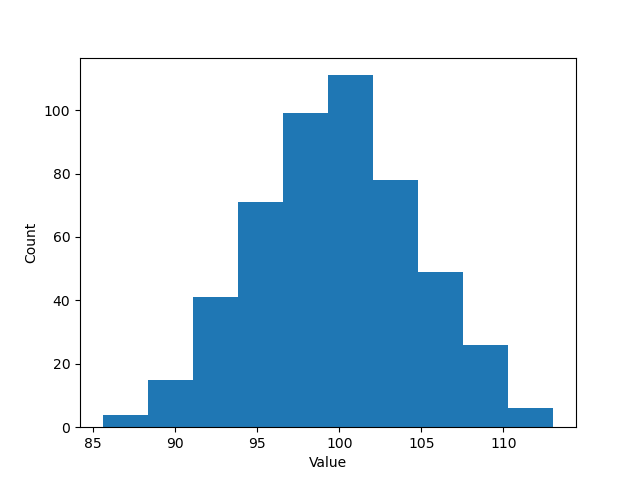
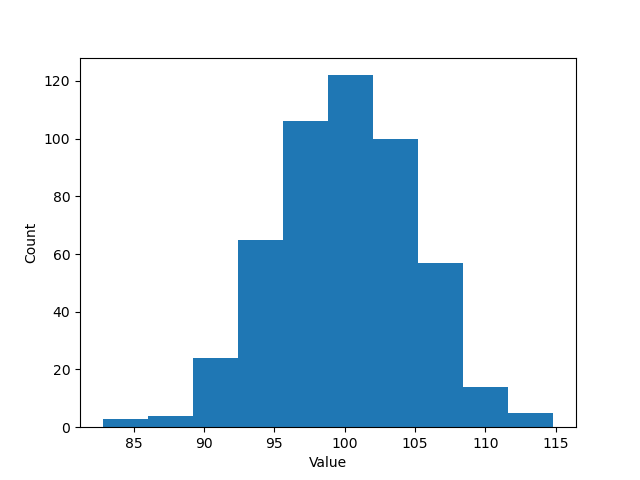
index.html more prob description

diff --git a/probplot.html b/probplot.html
@@ -1,67 +1,20 @@
+<!DOCTYPE html>
+<html lang="en">
+
 <head>
     <title>Presenting Statistical Distributions</title>
-    <style>
-        code {
-            white-space: pre-wrap;
-        }
-    
-        span.smallcaps {
-            font-variant: small-caps;
-        }
-    
-        span.underline {
-            text-decoration: underline;
-        }
-    
-        div.column {
-            display: inline-block;
-            vertical-align: top;
-            width: 50%;
-        }
-    
-        div.hanging-indent {
-            margin-left: 1.5em;
-            text-indent: -1.5em;
-        }
-    
-        ul.task-list {
-            list-style: none;
-        }
-    
-        body {
-            font-family: -apple-system, BlinkMacSystemFont, "Segoe UI", Roboto, "Helvetica Neue", Helvetica, Arial, sans-serif, "Apple Color Emoji", "Segoe UI Emoji", "Segoe UI Symbol";
-            font-size: 12pt;
-            line-height: 1.6;
-            margin: auto;
-            max-width: 920px;
-            min-width: 360px;
-            padding: 2rem;
-            word-wrap: break-word;
-        }
-    
-        figure {
-            text-align: center;
-            
-            margin-left: auto;
-            margin-right: auto;
-        }
-
-        pre {
-            background-color: lightgrey;
-            max-width: 750px;
-            margin-left: auto;
-            margin-right: auto;
-            padding: 14px 16px;
-        }
-    </style>
+    <link rel="stylesheet" href="style.css">
+    <meta name="viewport" content="width=device-width, initial-scale=1">
+    <meta charset="utf-8">
 </head>
+
 <body>
     <h1>Plotting Statistical Distributions</h1>
     <p>
-        What is the best way to present statistical data?  Some of the
+        What is the best way to present statistical data? Some of the
         desireable features of the plot would be a means of comparing features
-        of the distributions.  For example, for normally distributed data, we
-        might like to compare the mean and standard deviation.  Additionally, it
+        of the distributions. For example, for normally distributed data, we
+        might like to compare the mean and standard deviation. Additionally, it
         is desirable to visualize how closely the data conforms to a particular
         distribution. A common way data is presented is as a histogram as follows:
     </p>
@@ -79,35 +32,48 @@
     <p>
         In Figure 2, we can tell from inspection that the means are different
         between the two distributions, but it would be difficult to tell that
-        the standard deviations are different.  Additionally, if we were to add
+        the standard deviations are different. Additionally, if we were to add
         much more than two distributions, the plots starts to get messy quite
         quickly.
     </p>
     <p>
         An alternate means of presenting this data is using a <a
-        href="https://en.wikipedia.org/wiki/P%E2%80%93P_plot">probability
-        plot.</a>  
+            href="https://en.wikipedia.org/wiki/P%E2%80%93P_plot">probability
+            plot.</a> It is generated by first ordering the observations from
+        minimum to maximum and then calculating the <a
+            href="https://en.wikipedia.org/wiki/Cumulative_frequency_analysis#Probability_estimate">
+            probability estimate</a> for each point. In order to make the data fall
+        on a straight line, <em>the position</em> of the plotted point is the inverse
+        cumulative distribution function (e.g. number of standard deviations
+        away from the mean) and the axis of the plot is percentage (to ease in
+        interpretation).
     </p>
     <figure>
         <img src="imgs/probplot.png" width="350px">
         <figcaption>
-            Figure 3 - Probability plot of the same two data distributions plotted above.
+            Figure 3 - Probability plot of the same two data distributions
+            plotted above as well as a skewnorm distribution to illustrate the
+            non-linearity.
         </figcaption>
     </figure>
     <p>
-        Presenting the data in this way has several advantages: 
-        <ol type="1">
-            <li>Several distributions can be plotted on the same plot for comparison.</li>
-            <li>The median is where the data intersects the 50% point.</li>
-            <li>The standard deviation is proportional to the slope of the data.  (The actual standard deviation is roughly the 84% point minus the 50% point.)</li>
-            <li>The linearity of the data represents how well the data fits the chosen distribution.</li>
-        </ol>
-        Here is how this example data was generated:
-        <pre>
+        Presenting the data in this way has several advantages:
+    <ol type="1">
+        <li>Several sets of observation can be plotted on the same plot for comparison.</li>
+        <li>The median is where the data intersects the 50% point.</li>
+        <li>The standard deviation is proportional to the slope of the data. (The actual standard deviation is roughly
+            the 84% point minus the 50% point.)</li>
+        <li>The linearity of the data represents how well the data fits the chosen distribution.</li>
+    </ol>
+    Here is how this example data was generated (<a href="probplot.py"><tt>probplot.py</tt></a>). scipy also has a <a
+        href="https://docs.scipy.org/doc/scipy/reference/generated/scipy.stats.probplot.html"><tt>scipy.stats.probplot</tt></a>
+    function that can be used.
+    <pre>
 import statsmodels.api as sm
 import matplotlib.pyplot as plt
 import numpy as np
 import itertools
+from scipy.stats import skewnorm
 
 means = [100, 105]
 std_devs = [5, 6]
@@ -116,7 +82,7 @@ num_to_sim = 500
 
 data = [
     np.random.randn(num_to_sim) * s + mu for mu, s in zip(means, std_devs)
-]
+] + [skewnorm.rvs(10, size=num_to_sim)*std_devs[0] + means[0]]
 
 plt.hist(data[0])
 plt.xlabel('Value')
@@ -126,14 +92,19 @@ plt.savefig('imgs/basic_histogram.png')
 plt.figure()
 plt.hist(data[0])
 plt.hist(data[1], alpha=0.5)
+# plt.hist(data[2], alpha=0.5)
+
 plt.xlabel('Value')
 plt.ylabel('Count')
 plt.savefig('imgs/two_distributions.png')
 
+
 pp = sm.ProbPlot(data[0])
 pp2 = sm.ProbPlot(data[1])
+pp3 = sm.ProbPlot(data[2])
 fig = pp.probplot()
 pp2.probplot(ax=fig.gca())
+pp3.probplot(ax=fig.gca())
 plt.grid(True)
 
 colors = itertools.cycle(plt.rcParams['axes.prop_cycle'].by_key()['color'])
@@ -160,3 +131,5 @@ plt.savefig('imgs/probplot.png')
 
     </script>
 </body>
+
+</html>

diff --git a/style.css b/style.css
@@ -1,0 +1,56 @@
+code {
+    white-space: pre-wrap;
+}
+
+span.smallcaps {
+    font-variant: small-caps;
+}
+
+span.underline {
+    text-decoration: underline;
+}
+
+div.column {
+    display: inline-block;
+    vertical-align: top;
+    width: 50%;
+}
+
+div.hanging-indent {
+    margin-left: 1.5em;
+    text-indent: -1.5em;
+}
+
+ul.task-list {
+    list-style: none;
+}
+
+body {
+    font-family: -apple-system, BlinkMacSystemFont, "Segoe UI", Roboto, "Helvetica Neue", Helvetica, Arial, sans-serif, "Apple Color Emoji", "Segoe UI Emoji", "Segoe UI Symbol";
+    font-size: 12pt;
+    line-height: 1.6;
+    margin: auto;
+    max-width: 920px;
+    min-width: 360px;
+    padding: 2rem;
+    word-wrap: break-word;
+}
+
+figure {
+    text-align: center;
+    
+    margin-left: auto;
+    margin-right: auto;
+}
+
+figcaption {
+    max-width: 70%;
+    margin: auto;
+}
+
+pre {
+    background-color: lightgrey;
+    max-width: 70%;
+    margin: auto;
+    padding: 14px 16px;
+}

diff --git a/index.html b/index.html
@@ -1,0 +1,17 @@
+<!DOCTYPE html>
+<html lang="en">
+
+<head>
+    <title>mikessut.github.io</title>
+    <link rel="stylesheet" href="style.css">
+    <meta name="viewport" content="width=device-width, initial-scale=1">
+    <meta charset="utf-8">
+</head>
+
+<body>
+    <h1>mikessut.github.io</h1>
+    <ul>
+        <li><a href="probplot.html">Presenting Statistical Distributions</a></li>
+        <li><a href="https://sbmueller.github.io/nohello/">Please Don’t Just Say Hello In Chat</a></li>
+    </ul>
+</body>
